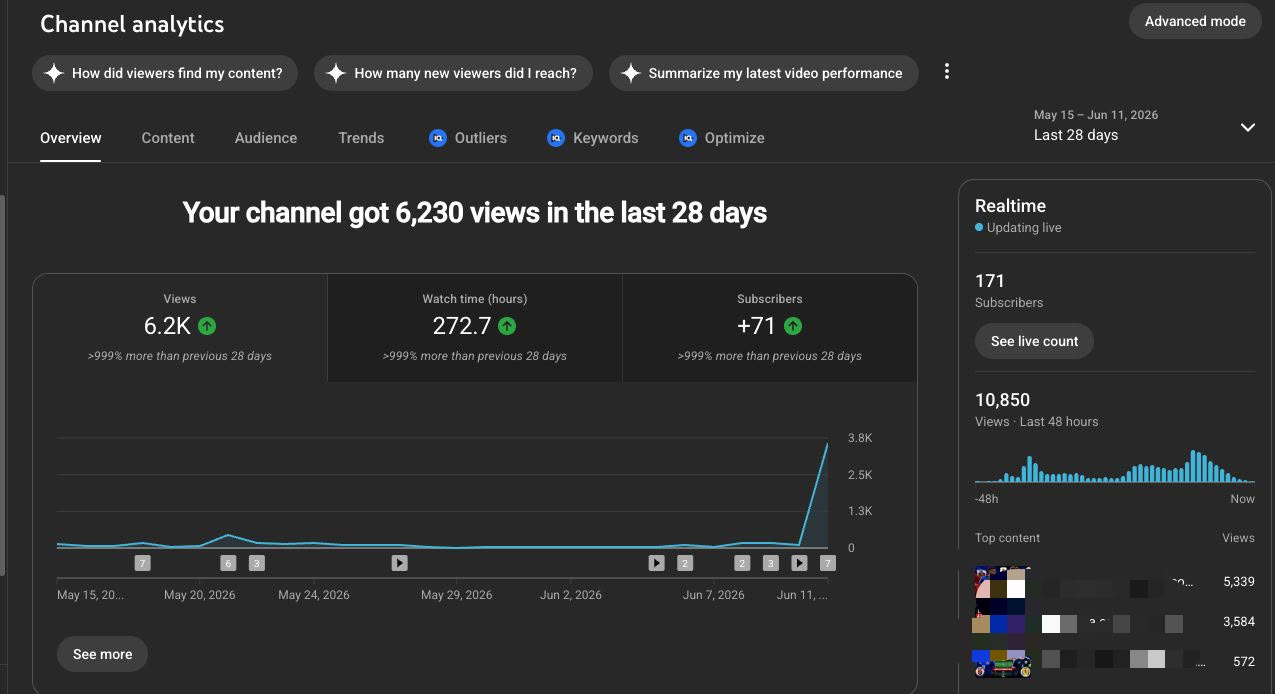
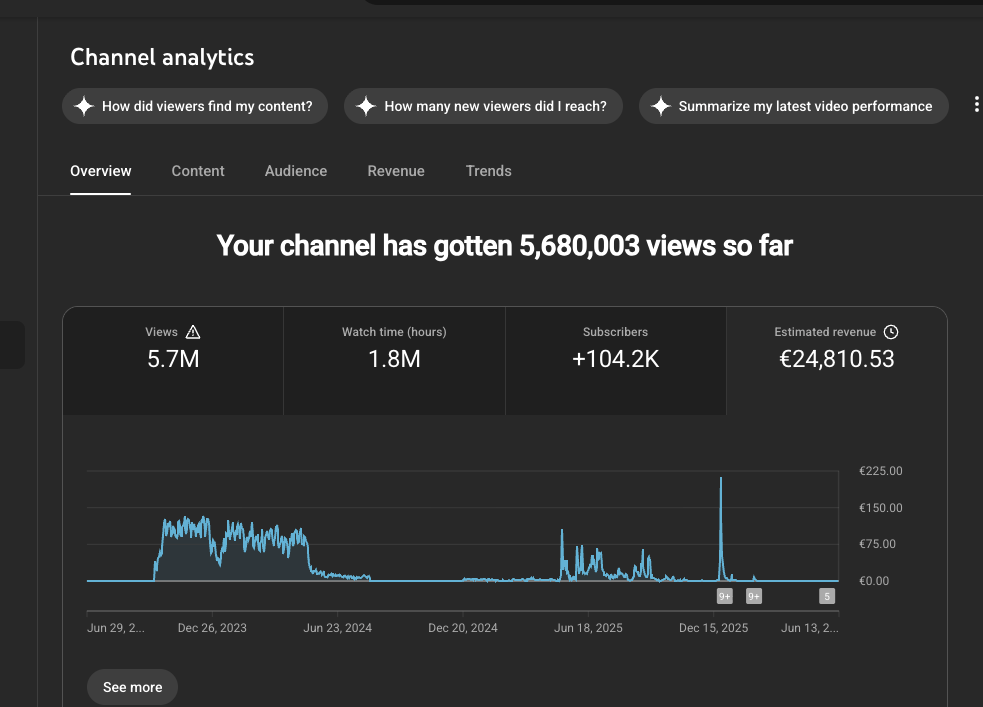
feat: landing page formation YouTube

diff --git a/src/components/Preuves.tsx b/src/components/Preuves.tsx
@@ -12,7 +12,7 @@ import { useState } from "react";
 //   tag   : badge coloré (ex: "Abonnés", "Revenus", "Monétisation")
 
 const CAPTURES: { src: string; label: string; tag: string }[] = [
-  { src: "/preuves/chaine-1.jpeg", label: "Monétisation atteinte en 6 semaines", tag: "Monétisation" },
+  { src: "/preuves/chaine-1.jpeg", label: "25 000€ générés avec ma chaine où j'ai eu le trophé des 100k d'abonnés", tag: "Monétisation" },
   { src: "/preuves/chaine-2.jpeg", label: "1 200 abonnés en 30 jours", tag: "Abonnés" },
   { src: "/preuves/chaine-3.jpeg", label: "Revenu en 3 jours de monetisation chaine lancé en 2 semaines", tag: "Revenus" },
 